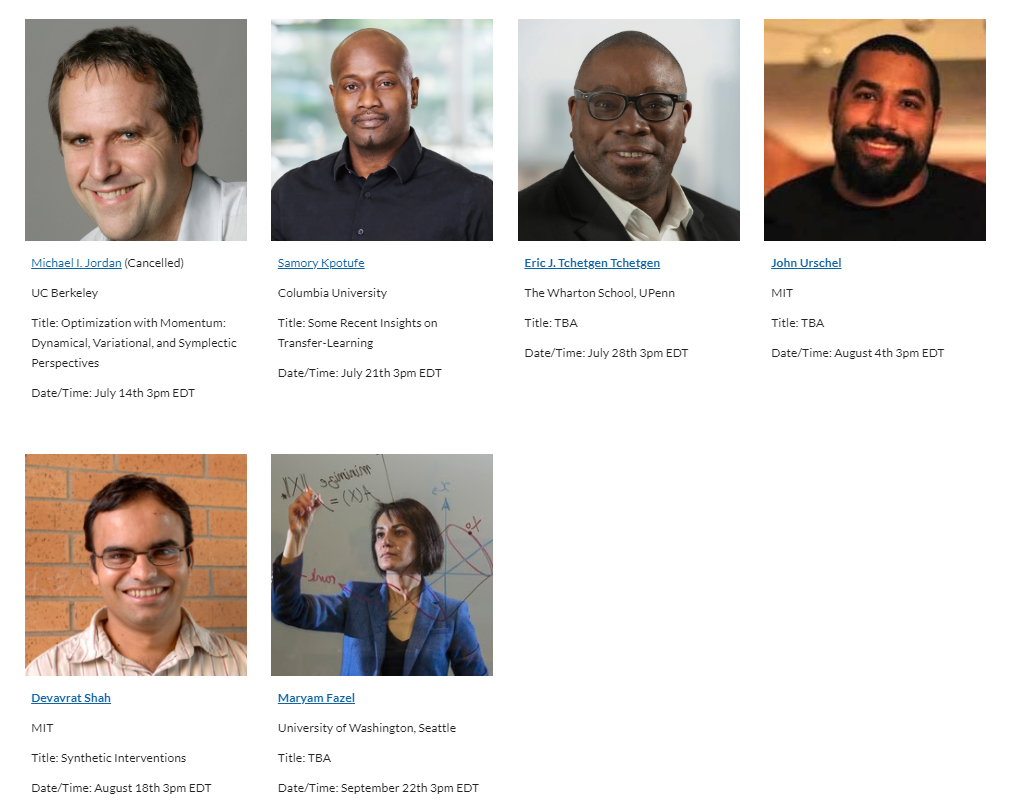
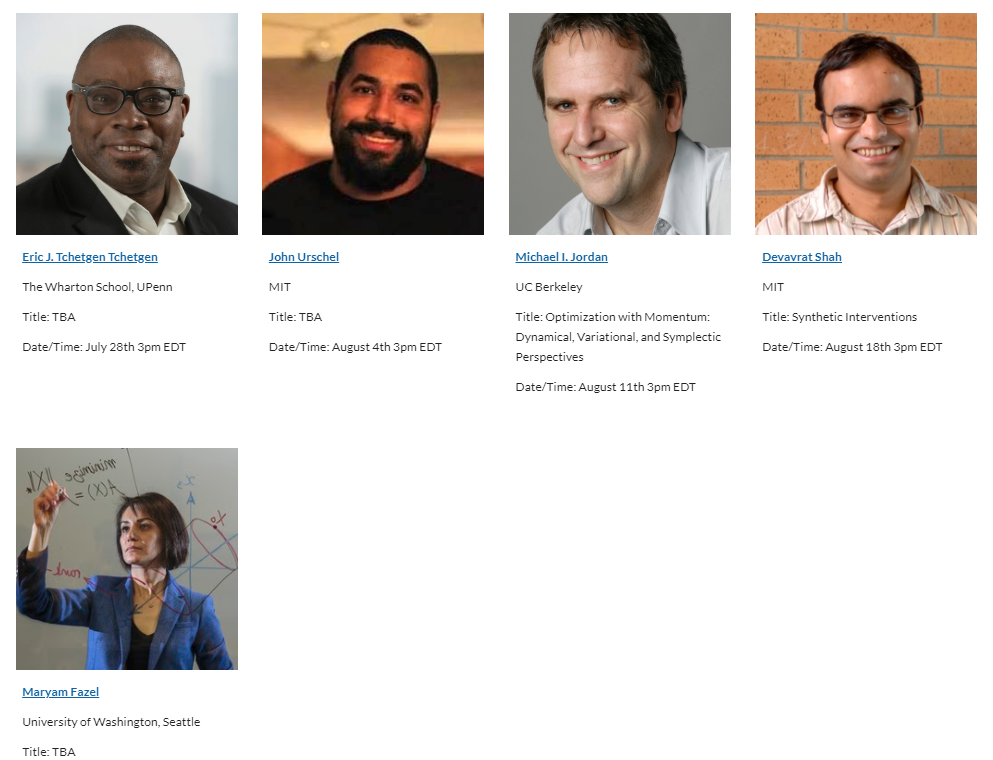
Update Math-for-DS.md

diff --git a/_projects/Math-for-DS.md b/_projects/Math-for-DS.md
@@ -21,26 +21,15 @@ To ask the speaker a question, please use the Q&A function in Zoom to type your 
 
 ## Next speaker
 
- <p align="center"><img width="20%" src="/images/news/MathDS/kpotufe.jpg" /></p>
+ <p align="center"><img width="20%" src="/images/news/MathDS/tchetgen.jpg" /></p>
 
-##### **Next Speaker:** [**Samory Kpotufe**](http://www.columbia.edu/~skk2175/), Columbia University
-##### **Date/Time:** Tuesday, July 21st, 3pm EDT [**[Zoom Link]**](https://psu.zoom.us/j/95512102924) [**[Facebook Link]**](https://www.facebook.com/events/2975077669258072)
-##### **Title:** Some Recent Insights on Transfer-Learning
+##### **Next Speaker:** [**Eric J. Tchetgen Tchetgen**](https://statistics.wharton.upenn.edu/profile/ett/), The Wharton School, UPenn
+##### **Date/Time:** Tuesday, July 28st, 3pm EDT [**[Zoom Link]**](https://psu.zoom.us/j/95512102924) [**[Facebook Link]**](https://www.facebook.com/events/983480592111310)
+##### **Title:** Selective Machine Learning of Doubly Robust Functionals
 
-**Abstract:** A common situation in Machine Learning is one where training data is not fully representative of a target population due to bias in the sampling mechanism or high costs in sampling the target population; in such situations, we aim to ’transfer’ relevant information from the training data (a.k.a. source data) to the target application. How much information is in the source data? How much target data should we collect if any? These are all practical questions that depend crucially on 'how far' the source domain is from the target. However, how to properly measure 'distance' between source and target domains remains largely unclear.
+**Abstract:** While model selection is a well-studied topic in parametric and nonparametric regression or density estimation, selection of possibly high-dimensional nuisance parameters in semiparametric problems is far less developed. In this paper, we propose a selective machine learning framework for making inferences about a finite-dimensional functional defined on a semiparametric model, when the latter admits a doubly robust estimating function and several machine learning algorithms are available for estimating nuisance parameters. We introduce two new selection criteria for bias reduction in estimating the functional of interest, each based on a novel definition of pseudo-risk for the functional that embodies this double robustness property and thus is used to select the pair of learners that is nearest to fulfilling this property. We establish an oracle property for a multi-fold cross-validation version of the new selection criteria which states that our empirical criteria perform nearly as well as an oracle with a priori knowledge of the pseudo-risk for each pair of candidate learners. We also describe a smooth approximation to the selection criteria which allows for valid post-selection inference. Finally, we apply the approach to model selection of a semiparametric estimator of average treatment effect given an ensemble of candidate machine learners to account for confounding in an observational study. This joint work with Yifan Cui.
 
-In this talk we will argue that much of the traditional notions of 'distance' (e.g. KL-divergence, extensions of TV such as D_A discrepancy, density-ratios, Wasserstein distance) can yield an over-pessimistic picture of transferability. Instead, we show that some new notions of 'relative dimension' between source and target (which we simply term 'transfer-exponents') capture a continuum from easy to hard transfer. Transfer-exponents uncover a rich set of situations where transfer is possible even at fast rates, encode relative benefits of source and target samples, and have interesting implications for related problems such as multi-task or multi-source learning.
-
-In particular, in the case of multi-source learning, we will discuss (if time permits) a strong dichotomy between minimax and adaptive rates: no adaptive procedure can achieve a rate better than single source rates, although minimax (oracle) procedures can.
-
-The talk is based on earlier work with Guillaume Martinet, and ongoing work with Steve Hanneke.
-
-
-**Bio:** Professor Samory Kpotufe graduated in 2010 from Computer Science at the University of California, San Diego and was advised by Sanjoy Dasgupta. He then was a researcher at the Max Planck Institute for Intelligent Systems working in the department of Bernhard Schoelkopf in the learning theory group of Ulrike von Luxburg. Following this, he was an Assistant Research Professor at the Toyota Technological Institute at Chicago. He then spent over 4 years at ORFE, Princeton University as Assistant Professor.
-
-Professor Kpotufe's work is in machine learning, with an emphasis on nonparametric methods and high-dimensional statistics. Generally, he is interested in understanding the inherent difficulty of high-dimensional problems, under practical constraints from real-world application domains. The nonparametric setting is attractive in that it captures scenarios where we have little domain knowledge, which is important as data sciences reach into a diverse range of applications.
-
-His main practical aim is to design adaptive procedures, i.e., practical procedures that can self-tune to unknown structure in data (e.g., manifold, sparsity, clusters), while at the same time meeting the various constraints (e.g., time, space, labeling cost) of modern applications.
+**Bio:** Professor Eric J. Tchetgen Tchetgen is the Luddy Family President’s Distinguished Professor of Statsitics at Wharton School of Business. His primary area of interest is in semi-parametric efficiency theory with application to causal inference, missing data problems, statistical genetics and mixed model theory. In general, I work on the development of statistical and epidemiologic methods that make efficient use of the information in data collected by scientific investigators, while avoiding unnecessary assumptions about the underlying data generating mechanism.
 
 ## Upcoming Speakers
 
